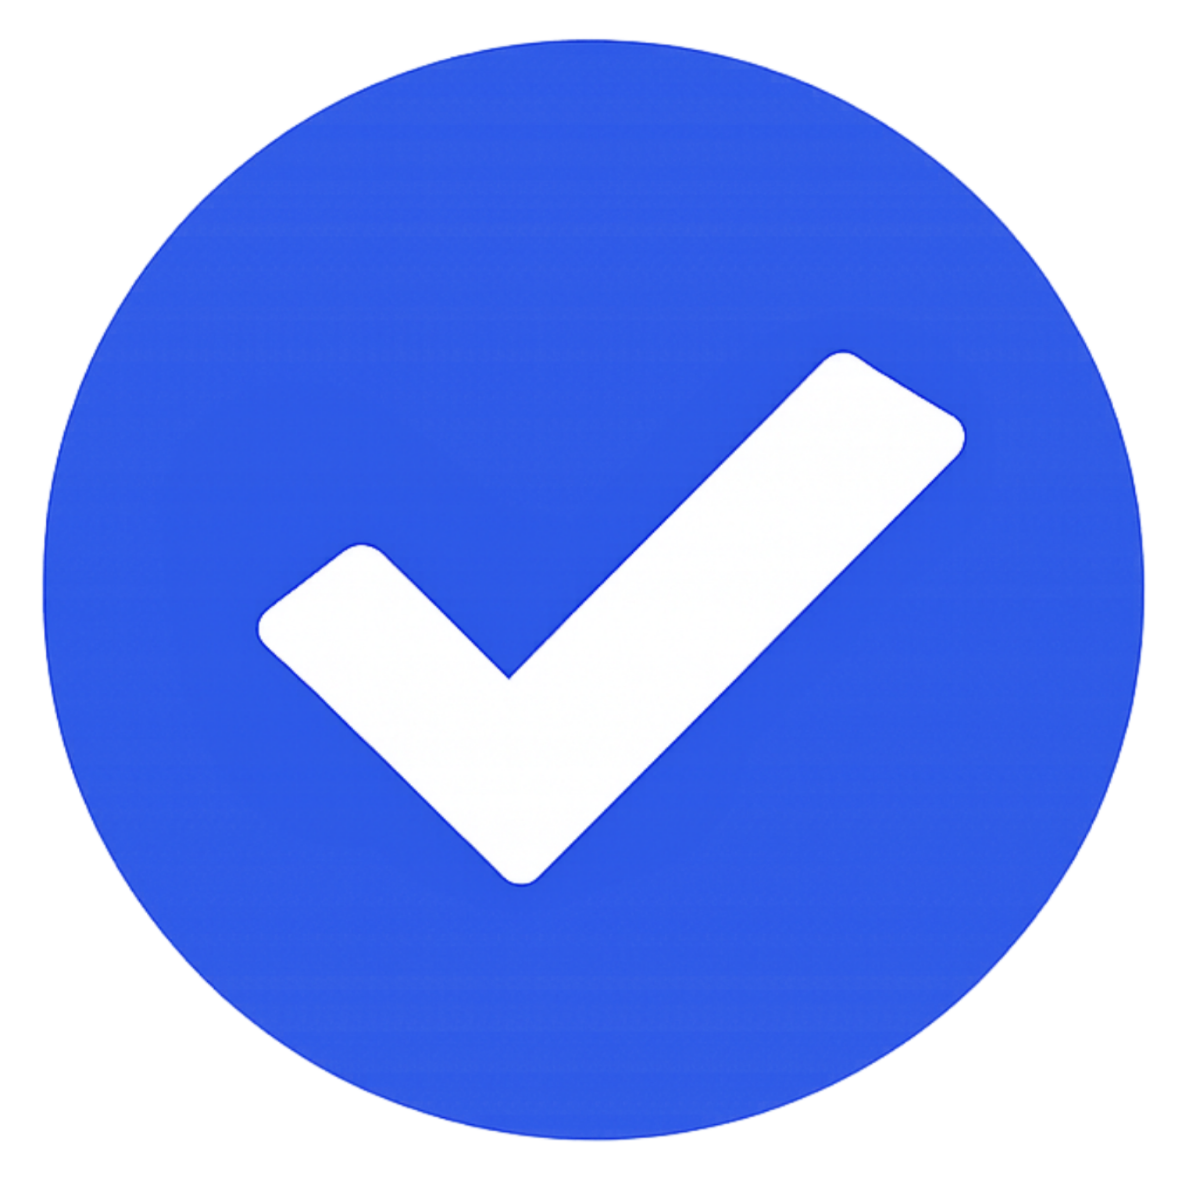
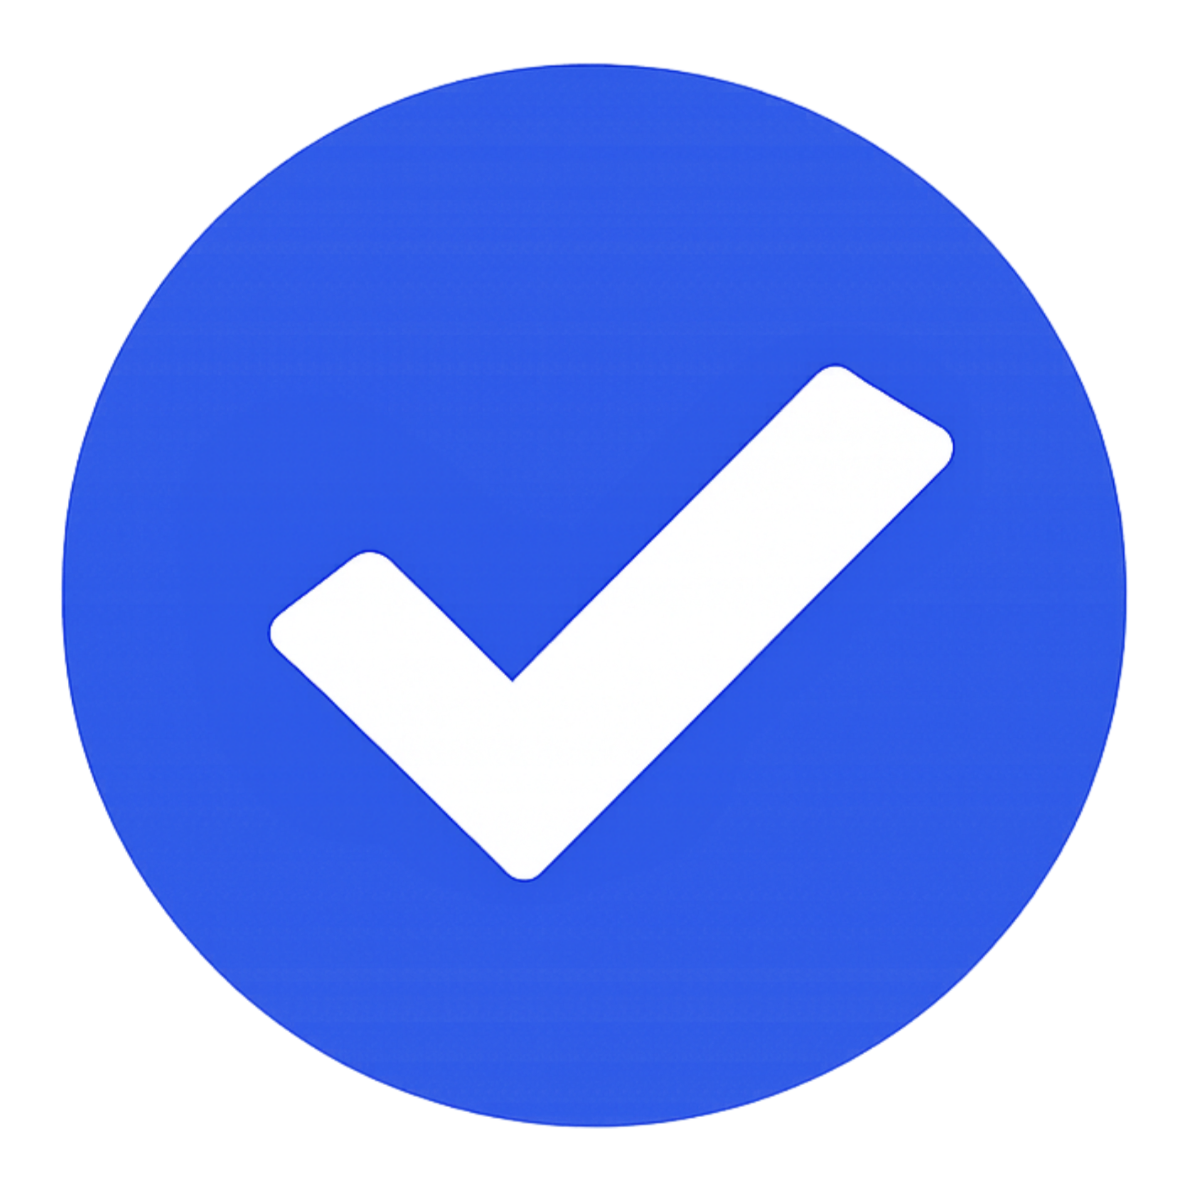
Replace verified badge artwork

diff --git a/internet.html b/internet.html
@@ -7,7 +7,7 @@
     <meta name="description" content="Clearwater Internet - the community social feed for Clearwater Roleplay." />
     <title>Clearwater Internet</title>
     <link rel="icon" type="image/png" href="assets/clearwater-logo.png" />
-    <link rel="stylesheet" href="internet.css?v=20260807-verified-6" />
+    <link rel="stylesheet" href="internet.css?v=20260807-verified-7" />
   </head>
   <body>
     <main class="internet-shell">
@@ -79,6 +79,6 @@
         <div><h2>Community rules</h2><p>Keep posts respectful. Ownership may remove access for rule-breaking.</p></div>
       </aside>
     </main>
-    <script src="internet.js?v=20260807-5"></script>
+    <script src="internet.js?v=20260807-6"></script>
   </body>
 </html>

diff --git a/internet.js b/internet.js
@@ -24,7 +24,7 @@ const profileRank = document.querySelector('[data-profile-rank]');
 const profileVerified = document.querySelector('[data-profile-verified]');
 const profilePostCount = document.querySelector('[data-profile-post-count]');
 const profileList = document.querySelector('[data-profile-list]');
-const INTERNET_VERSION = '20260807-verified-6';
+const INTERNET_VERSION = '20260807-verified-7';
 let allPosts = [];
 let currentUserId = null;
 let internetUsers = new Map();

diff --git a/api/internet-version.js b/api/internet-version.js
@@ -1,4 +1,4 @@
-const INTERNET_VERSION = '20260807-verified-6';
+const INTERNET_VERSION = '20260807-verified-7';
 
 export default function handler(request, response) {
   if (request.method !== 'GET') {
